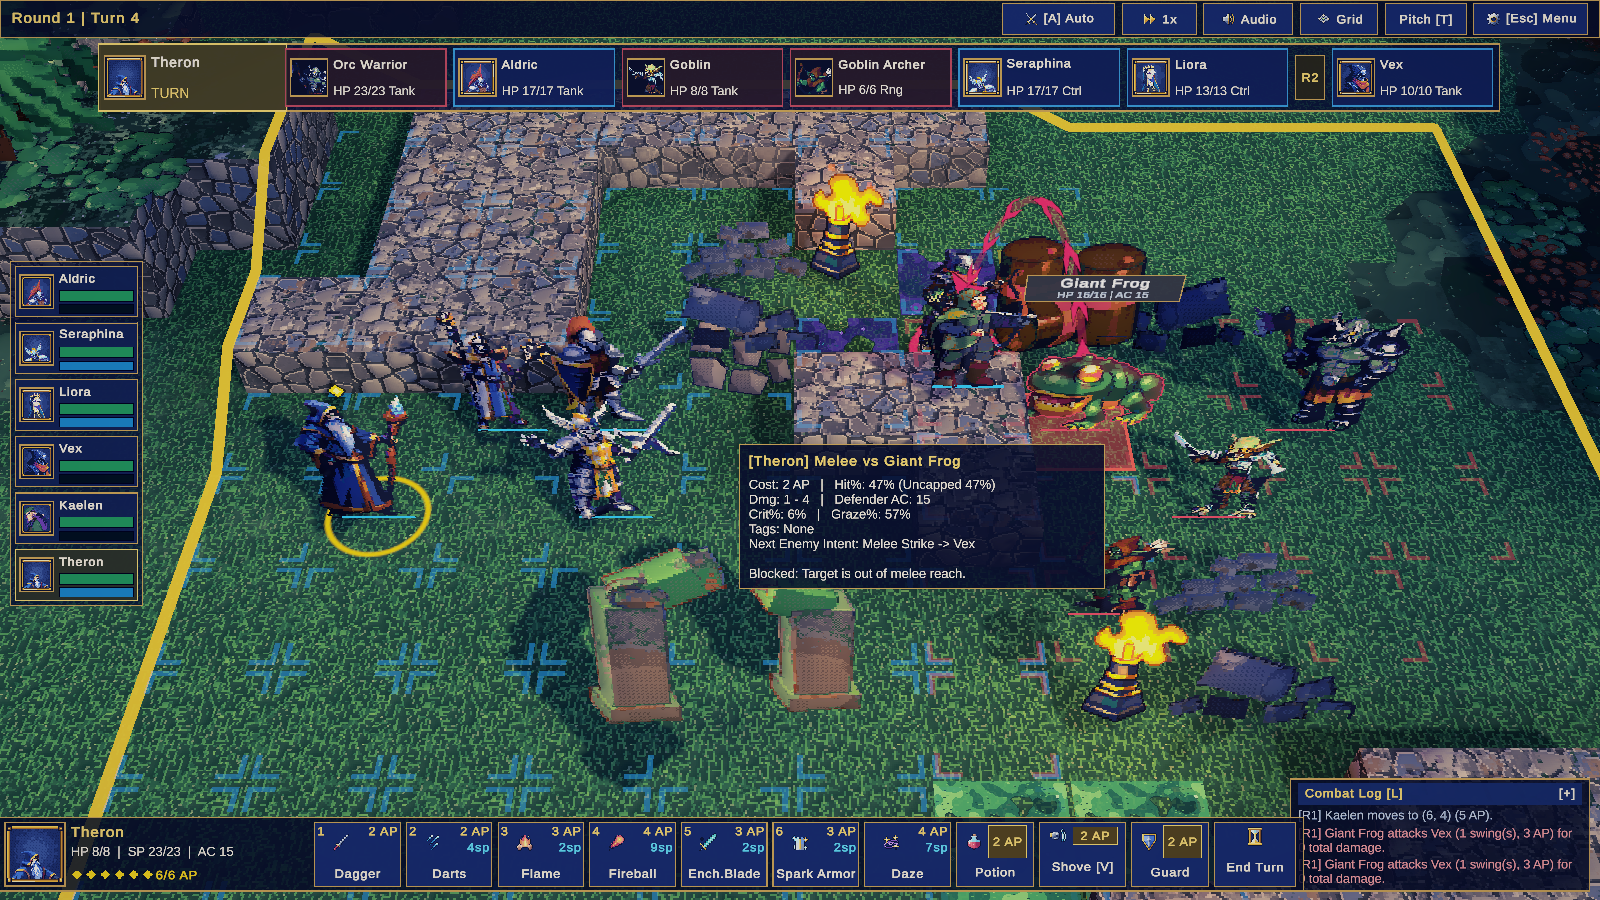
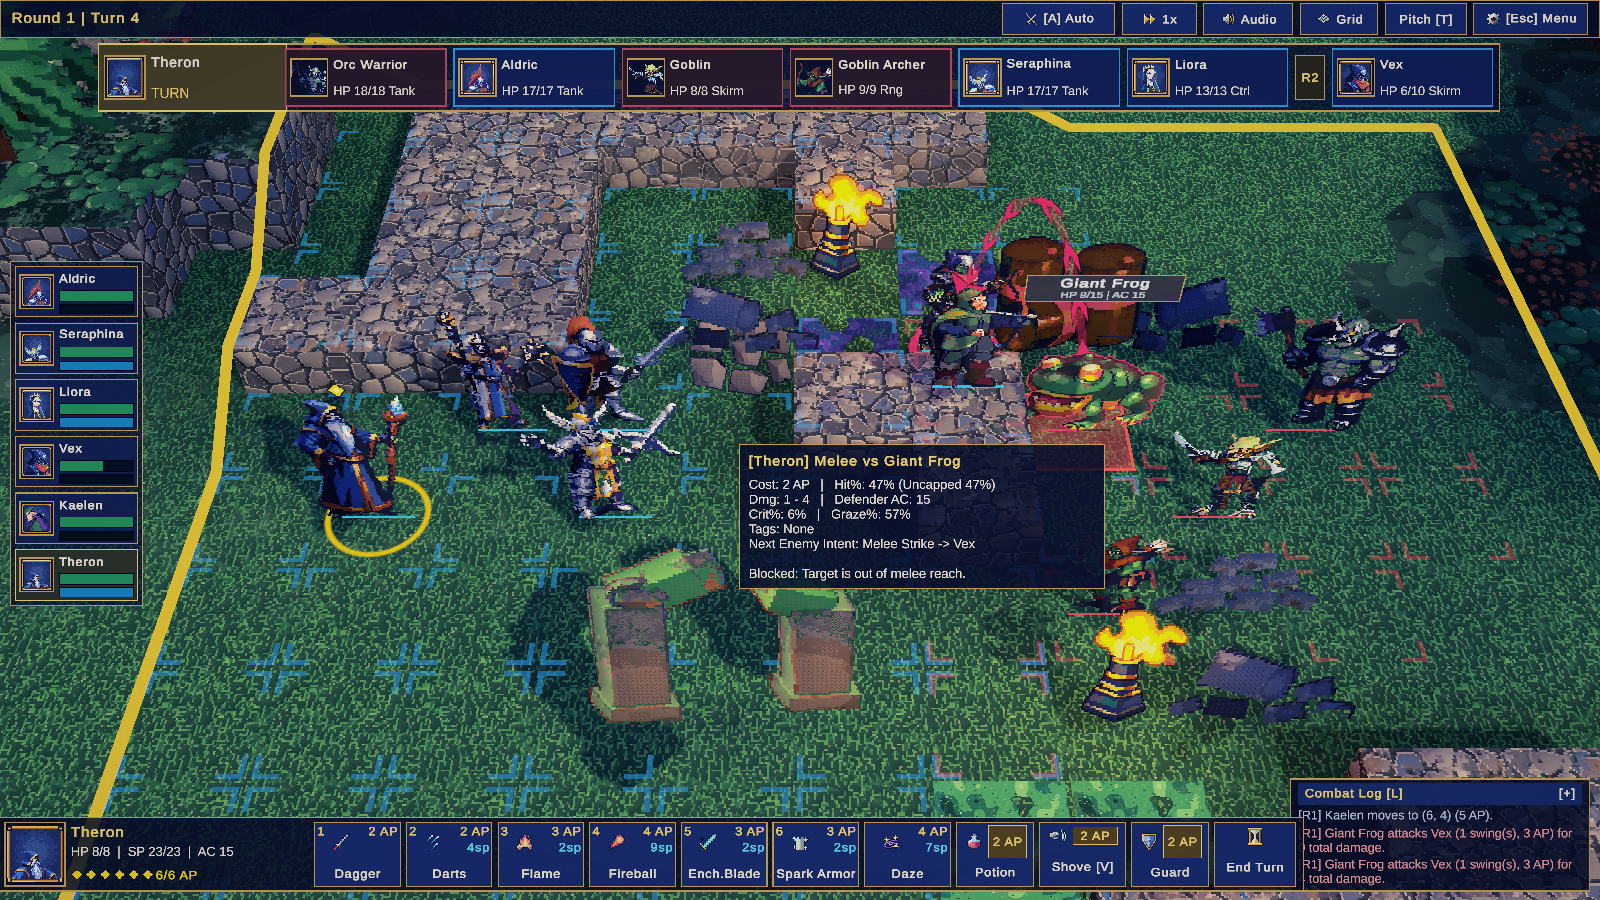
Stage 2 Grade-A polish: fix skybox hairlines, dusk water, bow loot clip, role tags, and path pips

diff --git a/remaster/RealmzUnity/Assets/Scripts/World/BywaterGridOverlays.cs b/remaster/RealmzUnity/Assets/Scripts/World/BywaterGridOverlays.cs
@@ -50,10 +50,11 @@ namespace Realmz.World
         private static readonly Color ReachableNormalColor = new Color(0.220f, 0.741f, 0.973f, 0.20f); // #38BDF8 @ 20%
         private static readonly Color ReachableAooColor = new Color(0.980f, 0.800f, 0.082f, 0.20f);    // #FACC15 @ 20%
         private static readonly Color ThreatenedColor = new Color(0.937f, 0.267f, 0.267f, 0.20f);      // #EF4444 @ 20%
-        private static readonly Color HoverPathSafeColor = new Color(1.00f, 0.95f, 0.72f, 0.76f);
-        private static readonly Color HoverPathAooColor = new Color(0.98f, 0.25f, 0.18f, 0.80f);
-        private static readonly Color ExploreReachableColor = new Color(0.22f, 0.86f, 0.64f, 0.78f);
-        private static readonly Color ExploreBlockedColor = new Color(0.88f, 0.24f, 0.22f, 0.78f);
+        private static readonly Color HoverPathSafeColor = new Color(0.220f, 0.741f, 0.973f, 0.56f);
+        private static readonly Color HoverPathGoldColor = new Color(0.980f, 0.800f, 0.082f, 0.62f);
+        private static readonly Color HoverPathAooColor = new Color(0.98f, 0.25f, 0.18f, 0.66f);
+        private static readonly Color ExploreReachableColor = new Color(0.22f, 0.86f, 0.64f, 0.58f);
+        private static readonly Color ExploreBlockedColor = new Color(0.88f, 0.24f, 0.22f, 0.64f);
         private static readonly Color LosClearColor = new Color(0.18f, 0.85f, 0.48f, 0.72f);
         private static readonly Color LosPartialColor = new Color(0.96f, 0.72f, 0.16f, 0.74f);
         private static readonly Color LosBlockedColor = new Color(0.95f, 0.22f, 0.22f, 0.78f);
@@ -192,6 +193,8 @@ namespace Realmz.World
         private Texture2D _intentThreatRingTexture;
         private Material _bracketMaterial;
         private Texture2D _cornerBracketTexture;
+        private Material _pathDotMaterial;
+        private Texture2D _pathDotTexture;
         private Material _aoeFillMaterial;
         private Texture2D _outlineFillTexture;
         private Material _fallbackOverlayMaterial;
@@ -325,6 +328,10 @@ namespace Realmz.World
             _bracketMaterial = null;
             DestroySafe(_cornerBracketTexture);
             _cornerBracketTexture = null;
+            DestroySafe(_pathDotMaterial);
+            _pathDotMaterial = null;
+            DestroySafe(_pathDotTexture);
+            _pathDotTexture = null;
 
             DestroySafe(_aoeFillMaterial);
             _aoeFillMaterial = null;
@@ -752,7 +759,15 @@ namespace Realmz.World
                     }
 
                     float y = GetTileElevation(step.X, step.Y) + 0.025f + 0.008f;
-                    PlaceQuadWithBaseColor(_exploreHoverLayer, step.X + 0.5f, y, -(step.Y + 0.5f), 0.34f, 0.34f, baseColor, fadedColor);
+                    PlaceCustomQuadWithBaseColor(
+                        _exploreHoverLayer,
+                        new Vector3(step.X + 0.5f, y, -(step.Y + 0.5f)),
+                        0.24f,
+                        0.24f,
+                        0f,
+                        GetOrCreatePathDotMaterial(),
+                        baseColor,
+                        fadedColor);
                 }
             }
 
@@ -1028,7 +1043,8 @@ namespace Realmz.World
 
             if (path != null)
             {
-                Color color = provokesAoO ? HoverPathAooColor : HoverPathSafeColor;
+                Material dotMat = GetOrCreatePathDotMaterial();
+                Material bracketMat = GetOrCreateBracketMaterial();
                 TMPro.TMP_FontAsset font = _catalog != null ? _catalog.uiFont : null;
 
                 for (int i = 0; i < path.Count; i++)
@@ -1036,11 +1052,41 @@ namespace Realmz.World
                     GridCoord step = path[i];
                     float elev = GetTileElevation(step.X, step.Y);
                     float y = elev + 0.025f + 0.010f;
-                    PlaceQuad(_combatHoverLayer, step.X + 0.5f, y, -(step.Y + 0.5f), 0.42f, 0.42f, color);
 
                     int stepCost = (stepApCosts != null && i < stepApCosts.Count)
                         ? Mathf.Max(0, stepApCosts[i])
                         : InferStepApCost(path, i);
+
+                    bool isDestination = i == path.Count - 1;
+                    bool highCostOrAoo = stepCost >= 2 || (provokesAoO && isDestination);
+                    Color dotColor = provokesAoO
+                        ? HoverPathAooColor
+                        : (highCostOrAoo ? HoverPathGoldColor : HoverPathSafeColor);
+                    float dotSize = isDestination ? 0.30f : 0.22f;
+
+                    PlaceCustomQuadWithBaseColor(
+                        _combatHoverLayer,
+                        new Vector3(step.X + 0.5f, y, -(step.Y + 0.5f)),
+                        dotSize,
+                        dotSize,
+                        0f,
+                        dotMat,
+                        dotColor,
+                        dotColor);
+
+                    if (isDestination)
+                    {
+                        Color bracketColor = ScaleAlpha(dotColor, 0.65f);
+                        PlaceCustomQuadWithBaseColor(
+                            _combatHoverLayer,
+                            new Vector3(step.X + 0.5f, y + 0.001f, -(step.Y + 0.5f)),
+                            0.92f,
+                            0.92f,
+                            0f,
+                            bracketMat,
+                            bracketColor,
+                            bracketColor);
+                    }
 
                     if (stepCost > 0 && activePips < MaxHoverPathPips)
                     {
@@ -1052,7 +1098,6 @@ namespace Realmz.World
                         }
 
                         pip.Label.text = stepCost == 1 ? "1 AP" : (stepCost == 2 ? "2 AP" : stepCost + " AP");
-                        bool highCostOrAoo = stepCost >= 2 || (provokesAoO && i == path.Count - 1);
                         Color accent = highCostOrAoo
                             ? new Color(0.980f, 0.800f, 0.082f, 0.96f)
                             : new Color(0.220f, 0.741f, 0.973f, 0.96f);
@@ -1732,6 +1777,18 @@ namespace Realmz.World
             return _bracketMaterial;
         }
 
+        private Material GetOrCreatePathDotMaterial()
+        {
+            if (_pathDotMaterial != null)
+            {
+                return _pathDotMaterial;
+            }
+
+            _pathDotTexture = BuildPathDotTexture();
+            _pathDotMaterial = CreateTransparentOverlayMaterial("GridPathDot", _pathDotTexture, Color.white);
+            return _pathDotMaterial;
+        }
+
         private Material GetOrCreateAoeFillMaterial()
         {
             if (_aoeFillMaterial != null)
@@ -2000,6 +2057,48 @@ namespace Realmz.World
 
                     bool isBracket = (inCornerX && inEdgeBandY) || (inCornerY && inEdgeBandX);
                     pixels[y * size + x] = isBracket ? bracket : clear;
+                }
+            }
+
+            tex.SetPixels32(pixels);
+            tex.Apply(false, false);
+            return tex;
+        }
+
+        private static Texture2D BuildPathDotTexture()
+        {
+            const int size = SurfaceTextureSize;
+            Texture2D tex = new Texture2D(size, size, TextureFormat.RGBA32, false)
+            {
+                name = "GridPathDotTex",
+                filterMode = FilterMode.Bilinear,
+                wrapMode = TextureWrapMode.Clamp,
+                hideFlags = HideFlags.HideAndDontSave
+            };
+
+            Color32[] pixels = new Color32[size * size];
+            float half = (size - 1) * 0.5f;
+            float invRadius = 1.0f / (size * 0.44f);
+
+            for (int y = 0; y < size; y++)
+            {
+                float dy = (y - half) * invRadius;
+                for (int x = 0; x < size; x++)
+                {
+                    float dx = (x - half) * invRadius;
+                    float dist = Mathf.Sqrt(dx * dx + dy * dy);
+                    if (dist >= 1.0f)
+                    {
+                        pixels[y * size + x] = new Color32(0, 0, 0, 0);
+                        continue;
+                    }
+
+                    // Smooth alpha edge and subtle dark outer rim framing a bright tintable interior
+                    float alpha = Mathf.Clamp01((1.0f - dist) / 0.16f);
+                    float rimT = Mathf.Clamp01((dist - 0.62f) / 0.24f);
+                    byte rgb = (byte)Mathf.RoundToInt(Mathf.Lerp(255f, 52f, rimT));
+                    byte a = (byte)Mathf.RoundToInt(alpha * 255f);
+                    pixels[y * size + x] = new Color32(rgb, rgb, rgb, a);
                 }
             }
 

diff --git a/remaster/RealmzUnity/Assets/Scripts/Game/BywaterHudController.cs b/remaster/RealmzUnity/Assets/Scripts/Game/BywaterHudController.cs
@@ -2875,10 +2875,71 @@ namespace Realmz.Game
                 return string.Empty;
             }
 
-            if (unit.SpellIds != null && unit.SpellIds.Count > 0 && unit.MaxSp > 0 &&
-                (!unit.PrefersRanged || unit.SpellIds.Count >= 2))
+            if (!string.IsNullOrWhiteSpace(unit.Role))
+            {
+                string role = unit.Role.Trim();
+                if (role.Equals("Tank", StringComparison.OrdinalIgnoreCase) ||
+                    role.Equals("Bruiser", StringComparison.OrdinalIgnoreCase) ||
+                    role.Equals("Knight", StringComparison.OrdinalIgnoreCase) ||
+                    role.Equals("Paladin", StringComparison.OrdinalIgnoreCase) ||
+                    role.Equals("Fighter", StringComparison.OrdinalIgnoreCase) ||
+                    role.Equals("Warrior", StringComparison.OrdinalIgnoreCase) ||
+                    role.Equals("Guardian", StringComparison.OrdinalIgnoreCase))
+                {
+                    return "Tank";
+                }
+
+                if (role.Equals("Controller", StringComparison.OrdinalIgnoreCase) ||
+                    role.Equals("Ctrl", StringComparison.OrdinalIgnoreCase) ||
+                    role.Equals("Caster", StringComparison.OrdinalIgnoreCase) ||
+                    role.Equals("Mage", StringComparison.OrdinalIgnoreCase) ||
+                    role.Equals("Sorcerer", StringComparison.OrdinalIgnoreCase) ||
+                    role.Equals("Wizard", StringComparison.OrdinalIgnoreCase) ||
+                    role.Equals("Cleric", StringComparison.OrdinalIgnoreCase) ||
+                    role.Equals("Priest", StringComparison.OrdinalIgnoreCase) ||
+                    role.Equals("Shaman", StringComparison.OrdinalIgnoreCase))
+                {
+                    return "Ctrl";
+                }
+
+                if (role.Equals("Ranged", StringComparison.OrdinalIgnoreCase) ||
+                    role.Equals("Rng", StringComparison.OrdinalIgnoreCase) ||
+                    role.Equals("Archer", StringComparison.OrdinalIgnoreCase) ||
+                    role.Equals("Ranger", StringComparison.OrdinalIgnoreCase) ||
+                    role.Equals("Marksman", StringComparison.OrdinalIgnoreCase))
+                {
+                    return "Rng";
+                }
+
+                if (role.Equals("Skirmisher", StringComparison.OrdinalIgnoreCase) ||
+                    role.Equals("Skirm", StringComparison.OrdinalIgnoreCase) ||
+                    role.Equals("Rogue", StringComparison.OrdinalIgnoreCase) ||
+                    role.Equals("Scout", StringComparison.OrdinalIgnoreCase) ||
+                    role.Equals("Assassin", StringComparison.OrdinalIgnoreCase) ||
+                    role.Equals("Thief", StringComparison.OrdinalIgnoreCase))
+                {
+                    return "Skirm";
+                }
+            }
+
+            string id = unit.Id ?? string.Empty;
+            if (id.IndexOf("knight", StringComparison.OrdinalIgnoreCase) >= 0 ||
+                id.IndexOf("paladin", StringComparison.OrdinalIgnoreCase) >= 0 ||
+                id.IndexOf("orc_warrior", StringComparison.OrdinalIgnoreCase) >= 0 ||
+                unit.HasSpecialAbility("cleave_2tile"))
+            {
+                return "Tank";
+            }
+
+            if (id.IndexOf("frog", StringComparison.OrdinalIgnoreCase) >= 0 ||
+                unit.HasSpecialAbility("tongue_pull"))
             {
                 return "Ctrl";
+            }
+
+            if (id.IndexOf("rogue", StringComparison.OrdinalIgnoreCase) >= 0)
+            {
+                return "Skirm";
             }
 
             if (unit.PrefersRanged)
@@ -2886,12 +2947,12 @@ namespace Realmz.Game
                 return "Rng";
             }
 
-            if (unit.SpellIds != null && unit.SpellIds.Count > 0)
+            if (unit.SpellIds != null && unit.SpellIds.Count > 0 && (unit.MaxSp > 0 || unit.SpellIds.Count >= 1))
             {
                 return "Ctrl";
             }
 
-            if (unit.Ac >= 14 || unit.MaxHp >= 28)
+            if ((unit.MaxHp >= 17 && unit.Brawn >= 15) || unit.MaxHp >= 22)
             {
                 return "Tank";
             }

diff --git a/remaster/RealmzUnity/Assets/Scripts/Cartography/BywaterElevationBuilder.cs b/remaster/RealmzUnity/Assets/Scripts/Cartography/BywaterElevationBuilder.cs
@@ -384,23 +384,29 @@ namespace Realmz.Cartography
                 botY = eNeighbor;
             }
 
-            if (eHere <= eNeighbor + 0.03f)
+            int hereKey = Mathf.RoundToInt(eHere * 1000f);
+            int neighborKey = Mathf.RoundToInt(eNeighbor * 1000f);
+            if (hereKey <= neighborKey)
             {
                 return;
             }
 
-            Vector3 botRight = new Vector3(topRight.x, botY, topRight.z);
-            Vector3 botLeft = new Vector3(topLeft.x, botY, topLeft.z);
+            float leftDrop = ComputeCornerRimDrop(data, topLeft.x, -topLeft.z, eHere, topRimOffset * 2f);
+            float rightDrop = ComputeCornerRimDrop(data, topRight.x, -topRight.z, eHere, topRimOffset * 2f);
+            Vector3 adjTopLeft = new Vector3(topLeft.x, eHere - leftDrop, topLeft.z);
+            Vector3 adjTopRight = new Vector3(topRight.x, eHere - rightDrop, topRight.z);
+            Vector3 botRight = new Vector3(adjTopRight.x, botY, adjTopRight.z);
+            Vector3 botLeft = new Vector3(adjTopLeft.x, botY, adjTopLeft.z);
 
             Vector3 cliffNormal = (outwardDir + new Vector3(0f, 0.14f, 0f)).normalized;
-            Vector3 tangDir = (topRight - topLeft).normalized;
+            Vector3 tangDir = (adjTopRight - adjTopLeft).normalized;
             Vector4 tangent = new Vector4(tangDir.x, tangDir.y, tangDir.z, 1f);
 
             int baseIdx = verts.Count;
             verts.Add(botLeft);
             verts.Add(botRight);
-            verts.Add(topRight);
-            verts.Add(topLeft);
+            verts.Add(adjTopRight);
+            verts.Add(adjTopLeft);
 
             for (int k = 0; k < 4; k++)
             {

diff --git a/remaster/RealmzUnity/Assets/Scripts/Game/BywaterHudController.UxOverhaul.cs b/remaster/RealmzUnity/Assets/Scripts/Game/BywaterHudController.UxOverhaul.cs
@@ -2451,6 +2451,9 @@ namespace Realmz.Game
             chkIcon.rectTransform.offsetMax = Vector2.zero;
 
             TextMeshProUGUI statsLbl = BywaterUiHelpers.CreateLabel(bodyCol.transform, "Stats", string.Empty, _font, 15f, new Color(0.84f, 0.88f, 0.95f, 1f), TextAlignmentOptions.MidlineLeft, wrap: false);
+            statsLbl.enableAutoSizing = true;
+            statsLbl.fontSizeMin = 9.5f;
+            statsLbl.fontSizeMax = 15f;
             statsLbl.overflowMode = TextOverflowModes.Ellipsis;
             LayoutElement statsLe = statsLbl.gameObject.AddComponent<LayoutElement>();
             statsLe.minHeight = 20f;

diff --git a/remaster/RealmzUnity/Assets/Scripts/Cartography/CartographyWorldData.cs b/remaster/RealmzUnity/Assets/Scripts/Cartography/CartographyWorldData.cs
@@ -168,7 +168,7 @@ namespace Realmz.Cartography
         public const float TileMapWaterSurfaceElevation = -0.18f;
         public const float MudElevation = -0.05f;
         public const float PlazaElevation = 0.00f;
-        public const float CobbleElevation = 0.025f;
+        public const float CobbleElevation = PlazaElevation;
         public const float BridgeElevation = 0.10f;
         public const float HighlandElevation = 0.55f;
         public const float RidgeElevation = 0.75f;
